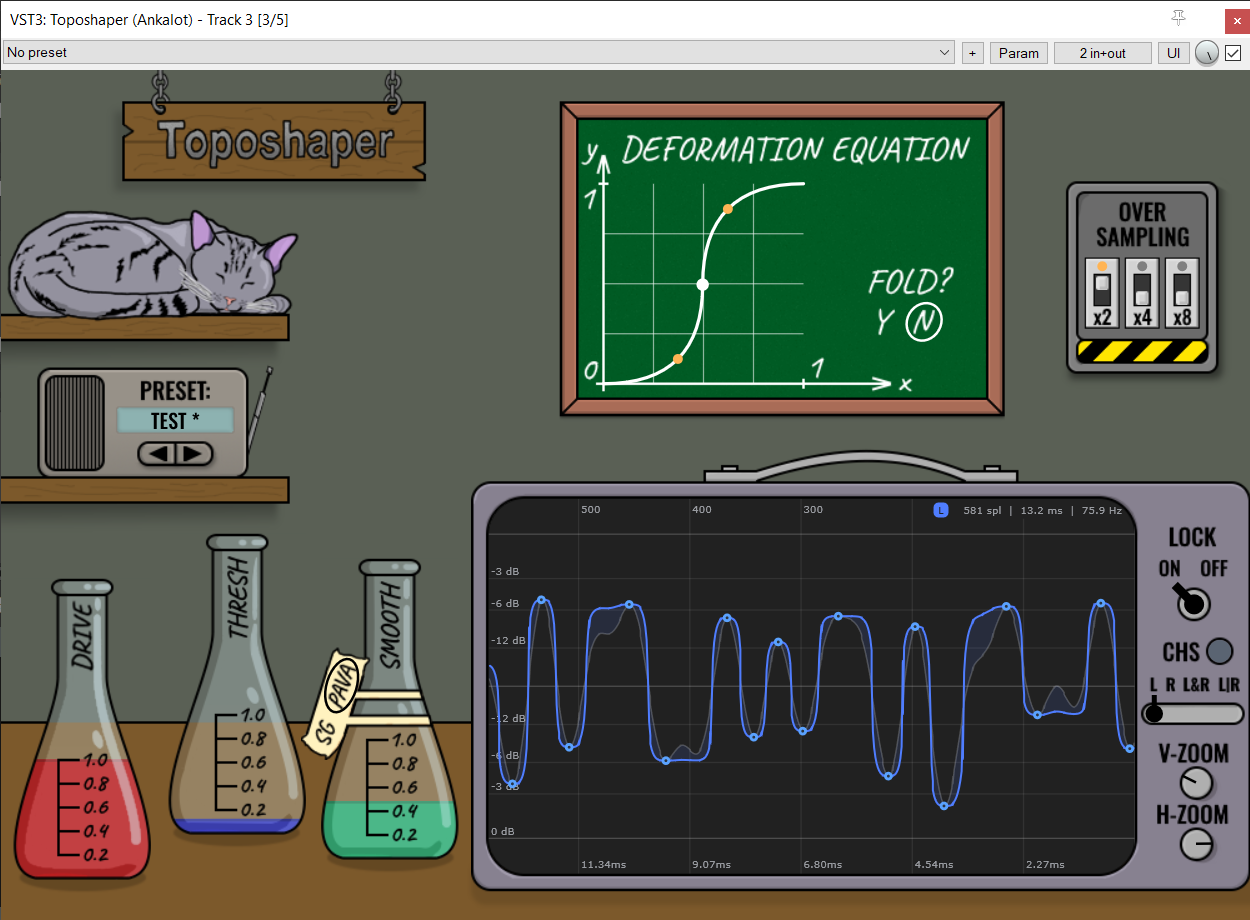
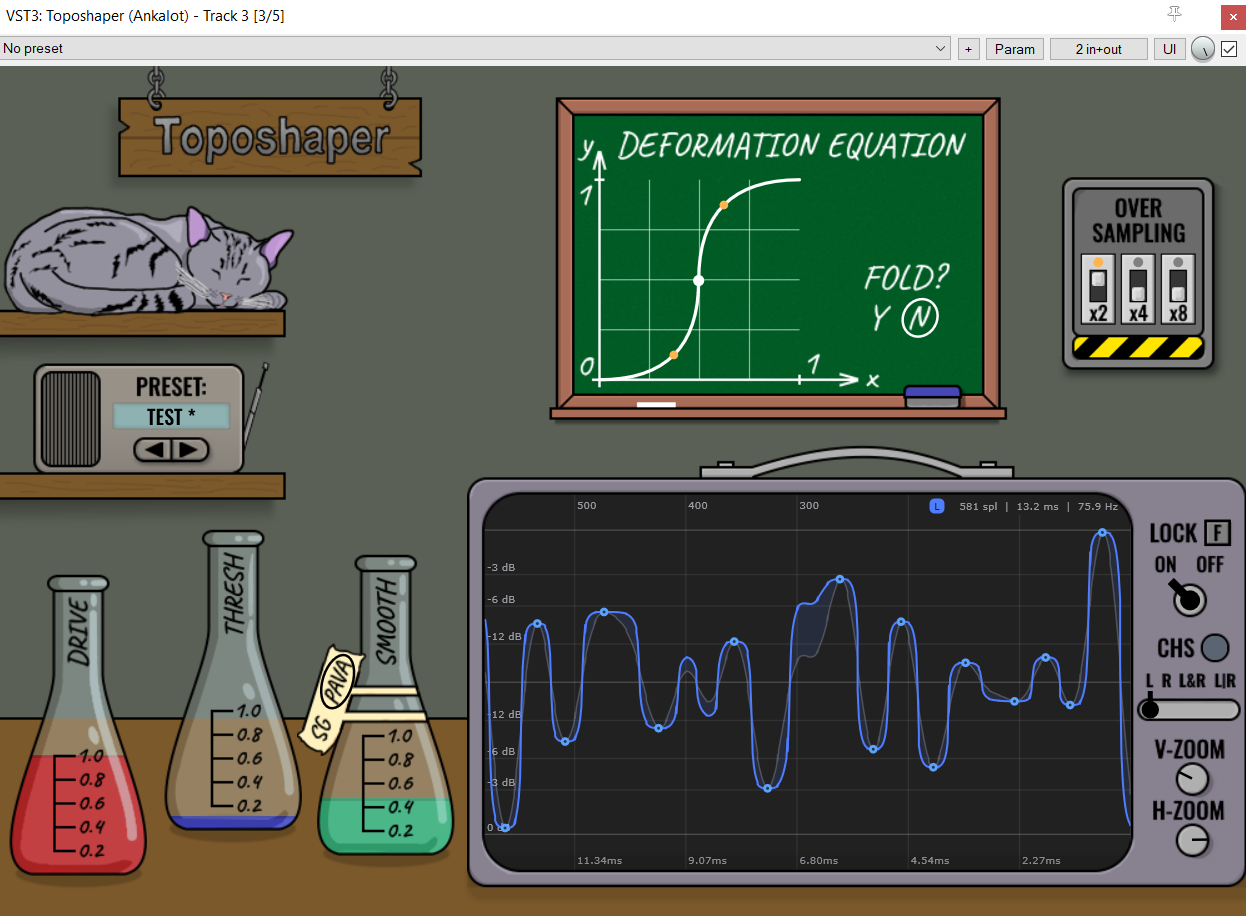
reduced the size of the points on the warp curve

diff --git a/audio_plugin/source/WarpCurveEditor.cpp b/audio_plugin/source/WarpCurveEditor.cpp
@@ -15,10 +15,10 @@ constexpr float kGridW = 1.0f;   // chalk stroke for the half grid
 const auto kEraserZone = juce::Rectangle<int>(283, 230, 47, 18);
 
 // Widget-private geometry (not shared design tokens)
-constexpr float kPointR = 5.0f;
-constexpr float kPointRHot = 6.5f;
-constexpr float kHandleR = 4.0f;
-constexpr float kHandleRHot = 5.5f;
+constexpr float kPointR = 4.5f;
+constexpr float kPointRHot = 6.0f;
+constexpr float kHandleR = 3.5f;
+constexpr float kHandleRHot = 5.0f;
 
 constexpr float kSnapStep = 0.05f;  // Alt-snap grid; includes drawn quarters
 float snapped(float v) {
@@ -125,11 +125,6 @@ void WarpCurveEditor::paint(juce::Graphics& g) {
     const float rad = hot ? kHandleRHot : kHandleR;
     g.setColour(ui::accentR);
     g.fillEllipse(q.x - rad, q.y - rad, rad * 2.0f, rad * 2.0f);
-    if (hot) {  // chalk ring around the grabbed handle
-      g.setColour(ui::chalk);
-      g.drawEllipse(q.x - rad - 2.0f, q.y - rad - 2.0f, rad * 2.0f + 4.0f,
-                    rad * 2.0f + 4.0f, 1.5f);
-    }
   }
   // Interior points: plain white chalk dots
   for (int i = 1; i < curve_.numPoints() - 1; ++i) {
